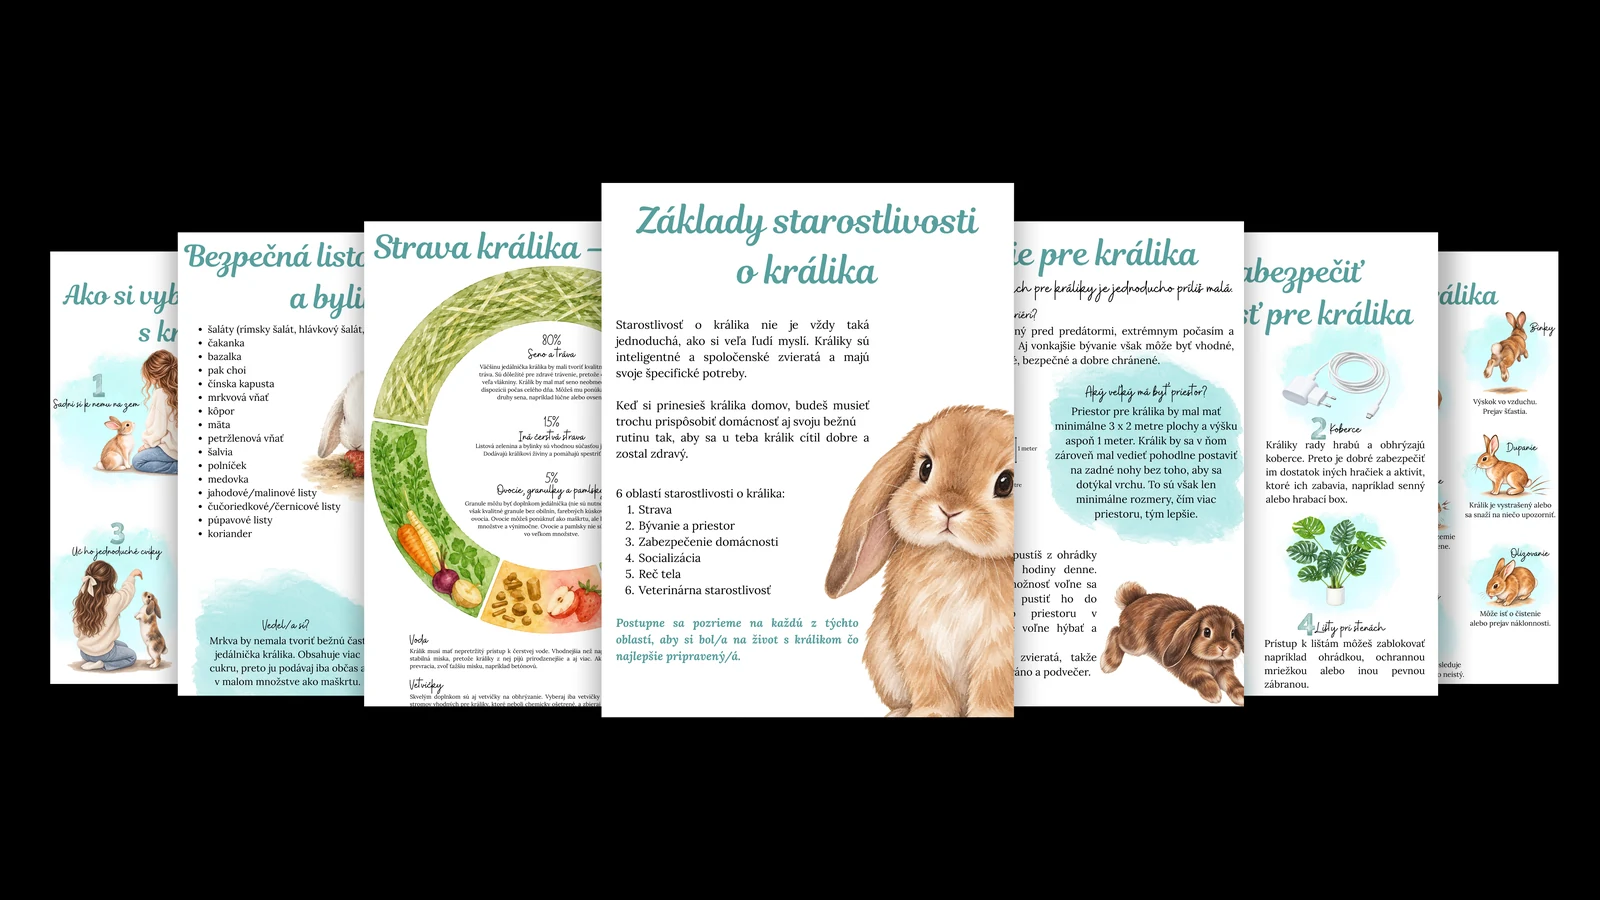
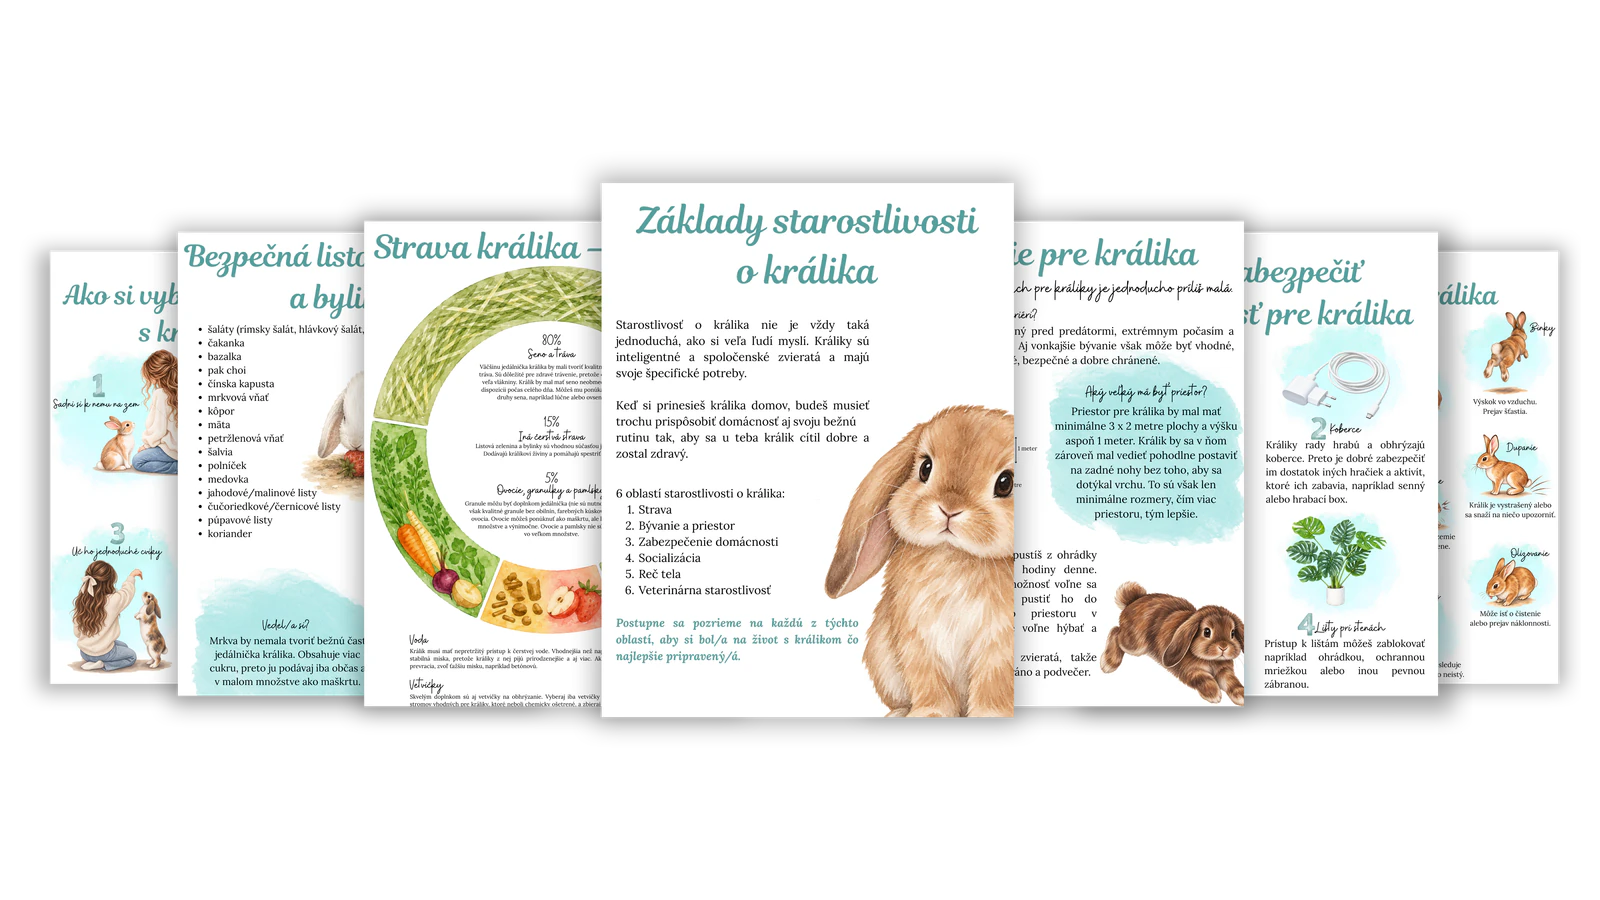
Clean up newsletter guide mockup

diff --git a/src/styles/email-capture.css b/src/styles/email-capture.css
@@ -442,14 +442,10 @@
   width: 100%;
   margin: 0;
   padding: clamp(0.5rem, 1vw, 0.85rem);
-  border: 1px solid rgba(255, 255, 255, 0.16);
+  border: 1px solid transparent;
   border-radius: 22px;
-  background:
-    radial-gradient(circle at 50% 48%, rgba(111, 46, 70, 0.48), transparent 58%),
-    linear-gradient(145deg, #180710, #2d0b19);
-  box-shadow:
-    0 20px 44px rgba(38, 12, 26, 0.24),
-    inset 0 1px 0 rgba(255, 255, 255, 0.08);
+  background: transparent;
+  box-shadow: none;
   overflow: hidden;
 }
 
@@ -465,26 +461,6 @@
   border-radius: 14px;
   object-fit: contain;
   filter: drop-shadow(0 16px 18px rgba(0, 0, 0, 0.24));
-}
-
-.email-offer__guide-visual figcaption {
-  position: absolute;
-  right: 1rem;
-  bottom: 1rem;
-  display: inline-flex;
-  align-items: center;
-  gap: 0.45rem;
-  min-height: 38px;
-  padding: 0.52rem 0.72rem;
-  border: 1px solid rgba(255, 255, 255, 0.55);
-  border-radius: 999px;
-  background: rgba(92, 19, 45, 0.94);
-  color: #fff8f5;
-  font-size: 0.82rem;
-  font-weight: 900;
-  line-height: 1;
-  box-shadow: 0 10px 24px rgba(38, 12, 26, 0.24);
-  backdrop-filter: blur(8px);
 }
 
 .email-offer--product {
@@ -580,10 +556,6 @@
     border-radius: 18px;
   }
 
-  .email-offer__guide-visual figcaption {
-    right: 0.72rem;
-    bottom: 0.72rem;
-  }
 }
 
 @media (prefers-reduced-motion: reduce) {

diff --git a/src/components/EmailCaptureOffer.jsx b/src/components/EmailCaptureOffer.jsx
@@ -1,5 +1,5 @@
 import { useEffect, useId, useRef, useState } from 'react';
-import { CheckCircle2, Copy, FileText, Mail, Tag, X } from 'lucide-react';
+import { CheckCircle2, Copy, Mail, Tag, X } from 'lucide-react';
 import { loadWelcomeDiscountOffer, signupForWelcomeDiscount } from '../api/client';
 import { useCart } from '../cart/useCart';
 import {
@@ -542,10 +542,6 @@ const EmailCaptureOffer = ({ placement = 'home' }) => {
                 alt="Náhľad PDF príručky Základy starostlivosti o králika"
               />
             </picture>
-            <figcaption>
-              <FileText size={17} aria-hidden="true" />
-              PDF príručka zdarma
-            </figcaption>
           </figure>
         )}
       </section>

diff --git a/src/components/EmailCaptureOffer.test.jsx b/src/components/EmailCaptureOffer.test.jsx
@@ -100,6 +100,7 @@ describe('EmailCaptureOffer', () => {
       'srcset',
       '/newsletter/care-guide-mockup-960.webp 960w, /newsletter/care-guide-mockup-1600.webp 1600w',
     );
+    expect(guideMockup.closest('figure')?.querySelector('figcaption')).toBeNull();
 
     const email = screen.getByLabelText('Zadaj svoj e-mail');
     expect(email).toHaveAttribute('type', 'email');
